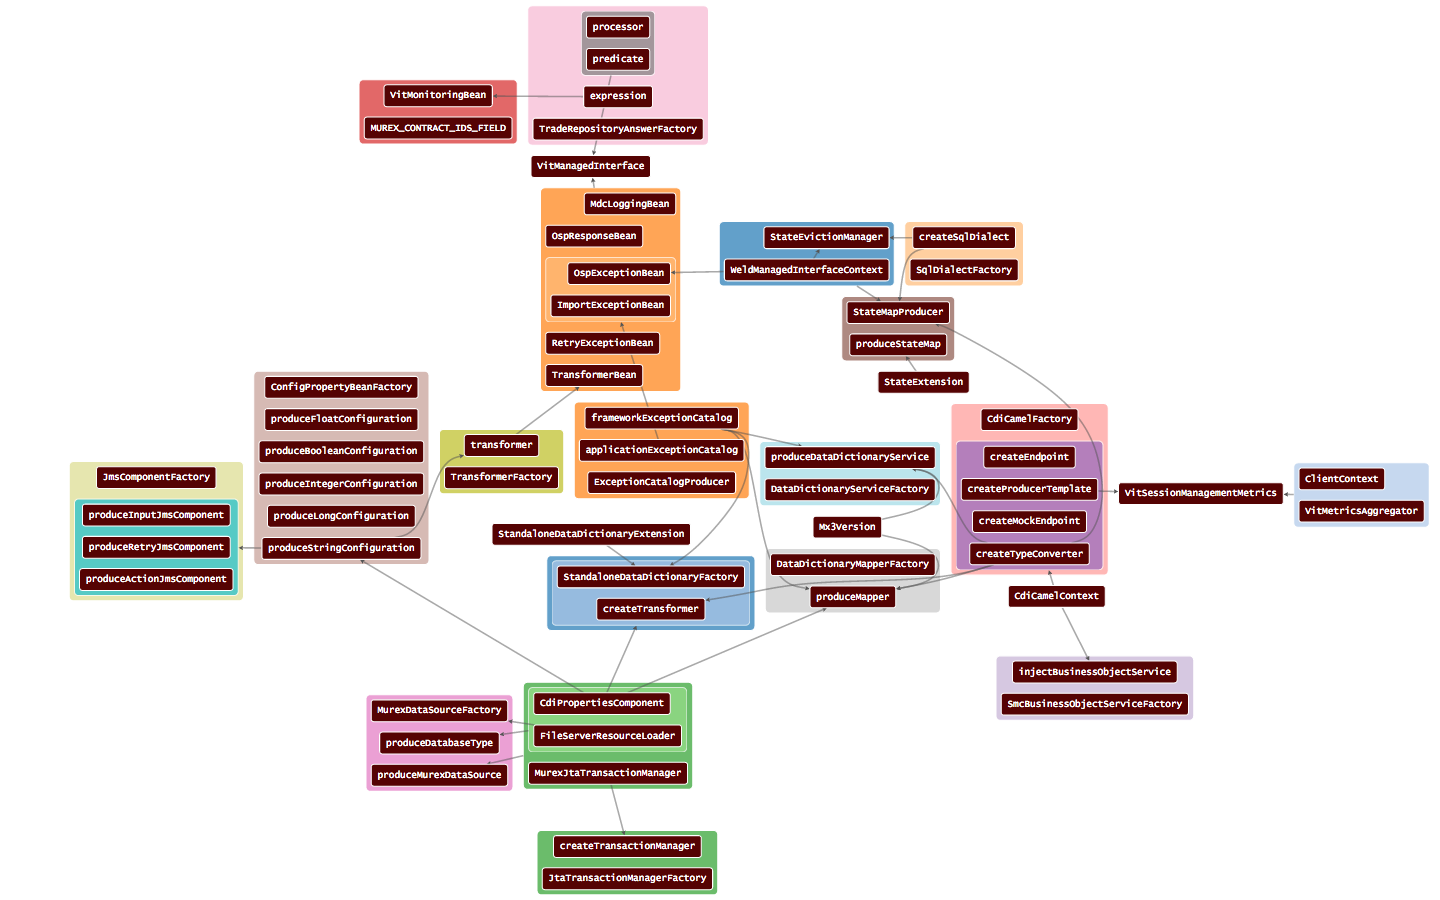
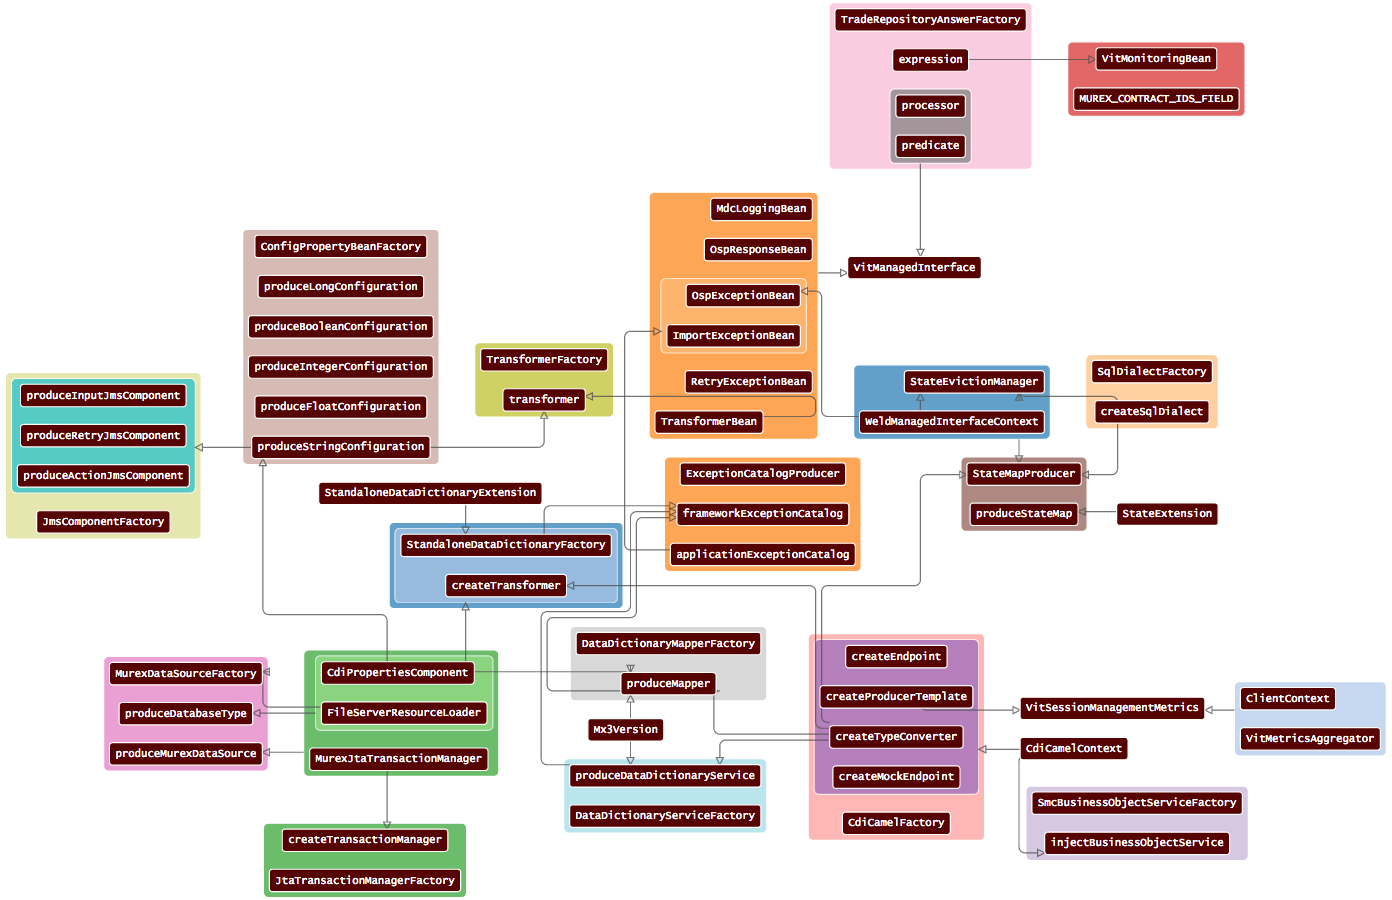
Update with metro line edge grid routing

diff --git a/cdeye.js b/cdeye.js
@@ -128,7 +128,7 @@ function display() {
         .enter().append("path")
         .attr("class", "link");
 
-    var margin = 10, pad = 12;
+    var margin = 15, pad = 10;
 
     var node = container.selectAll(".node")
         .data(nodes)
@@ -194,14 +194,156 @@ function display() {
         }
     });
 
+    function getId(v, n) {
+        return (typeof v.index === 'number' ? v.index : v.id + n) + 1;
+    }
+
     function routeEdges() {
-        d3cola.prepareEdgeRouting(0);
-        link.attr("d", function (d) {
-            // FIXME: edge routing does not work with power graph groups
-            if (!d.source.name || !d.target.name)
-                return lineFunction([{ x: d.sourceIntersection.x, y: d.sourceIntersection.y }, { x: d.arrowStart.x, y: d.arrowStart.y }]);
-            else
-                return lineFunction(d3cola.routeEdge(d));
+        //d3cola.prepareEdgeRouting(0);
+        //link.attr("d", function (d) {
+        // FIXME: edge routing does not work with power graph groups
+        //    if (!d.source.name || !d.target.name)
+        //        return lineFunction([{ x: d.sourceIntersection.x, y: d.sourceIntersection.y }, { x: d.arrowStart.x, y: d.arrowStart.y }]);
+        //    else
+        //        return lineFunction(d3cola.routeEdge(d));
+        //});
+
+        //length.each(function (d) { d.l = d.getTotalLength(); d.p = d.getPointAtLength(d.l / 2); })
+        //    .attr("x", function (d) { return d.p.x; })
+        //    .attr("y", function (d) { return d.p.y; })
+        //    .text(function (d) { return Math.floor(d.l) + "(" + Math.floor(d.computedLength) + ")"} );
+
+        var n = nodes.length, _id = function (v) {
+            return getId(v, n) - 1;
+        }, g = {
+            nodes: nodes.map(function (d) {
+                return {
+                    id: _id(d),
+                    name: d.name,
+                    //bounds: new cola.vpsc.Rectangle(d.x, d.x + d.width, d.y, d.y + d.height)
+                    bounds: d.innerBounds
+                };
+            }).concat(powerGraph.groups.map(function (d) {
+                return {
+                    id: _id(d),
+                    //innerBounds: d.innerBounds,
+                    children: (typeof d.groups !== 'undefined' ? d.groups.map(function (c) {
+                        return n + c.id;
+                    }) : []).concat(typeof d.leaves !== 'undefined' ? d.leaves.map(function (c) {
+                            return c.index;
+                        }) : [])
+                };
+            })),
+            edges: powerGraph.powerEdges.map(function (e) {
+                return {
+                    source: _id(e.source),
+                    target: _id(e.target),
+                    type: e.type
+                };
+            })
+        };
+        var gridrouter = new cola.GridRouter(g.nodes, {
+            getChildren: function (v) {
+                return v.children;
+            },
+            getBounds: function (v) {
+                return v.bounds;
+            }
+        }, 10);
+
+        //var gs = gridrouter.backToFront.filter(function (v) {
+        //    return !v.leaf;
+        //});
+
+        var routes = gridrouter.routeEdges(g.edges, 10, function (e) {
+            return e.source;
+        }, function (e) {
+            return e.target;
+        });
+
+        link.attr("d", function (e, j) {
+            var route = routes[j];
+            var id = 'e' + _id(e.source) + '-' + _id(e.target);
+            var cornerradius = 10;
+            var arrowwidth = 6;
+            var arrowheight = 12;
+            //var c = color(e.type);
+            var linewidth = 5;
+            var path = 'M ' + route[0][0].x + ' ' + route[0][0].y + ' ';
+            if (route.length > 1) {
+                for (var i = 0; i < route.length; i++) {
+                    var li = route[i];
+                    var x = li[1].x, y = li[1].y;
+                    var dx = x - li[0].x;
+                    var dy = y - li[0].y;
+                    if (i < route.length - 1) {
+                        if (Math.abs(dx) > 0) {
+                            x -= dx / Math.abs(dx) * cornerradius;
+                        } else {
+                            y -= dy / Math.abs(dy) * cornerradius;
+                        }
+                        path += 'L ' + x + ' ' + y + ' ';
+                        var l = route[i + 1];
+                        var x0 = l[0].x, y0 = l[0].y;
+                        var x1 = l[1].x;
+                        var y1 = l[1].y;
+                        dx = x1 - x0;
+                        dy = y1 - y0;
+                        var angle = cola.GridRouter.angleBetween2Lines(li, l) < 0 ? 1 : 0;
+                        //console.log(cola.GridRouter.angleBetween2Lines(li, l));
+                        var x2, y2;
+                        if (Math.abs(dx) > 0) {
+                            x2 = x0 + dx / Math.abs(dx) * cornerradius;
+                            y2 = y0;
+                        } else {
+                            x2 = x0;
+                            y2 = y0 + dy / Math.abs(dy) * cornerradius;
+                        }
+                        var cx = Math.abs(x2 - x);
+                        var cy = Math.abs(y2 - y);
+                        path += 'A ' + cx + ' ' + cy + ' 0 0 ' + angle + ' ' + x2 + ' ' + y2 + ' ';
+                    } else {
+                        var arrowtip = [x, y];
+                        var arrowcorner1, arrowcorner2;
+                        if (Math.abs(dx) > 0) {
+                            x -= dx / Math.abs(dx) * arrowheight;
+                            arrowcorner1 = [x, y + arrowwidth];
+                            arrowcorner2 = [x, y - arrowwidth];
+                        } else {
+                            y -= dy / Math.abs(dy) * arrowheight;
+                            arrowcorner1 = [x + arrowwidth, y];
+                            arrowcorner2 = [x - arrowwidth, y];
+                        }
+                        path += 'L ' + x + ' ' + y + ' ';
+                        //svg.append('path').attr('d', 'M ' + arrowtip[0] + ' ' + arrowtip[1] + ' L ' + arrowcorner1[0] + ' ' + arrowcorner1[1] + ' L ' + arrowcorner2[0] + ' ' + arrowcorner2[1] + ' Z').attr('stroke', '#550000').attr('stroke-width', 2);
+                        //svg.append('path').attr('d', 'M ' + arrowtip[0] + ' ' + arrowtip[1] + ' L ' + arrowcorner1[0] + ' ' + arrowcorner1[1] + ' L ' + arrowcorner2[0] + ' ' + arrowcorner2[1]).attr('stroke', 'none').attr('fill', c);
+                        path += 'M ' + arrowtip[0] + ' ' + arrowtip[1] + ' L ' + arrowcorner1[0] + ' ' + arrowcorner1[1] + ' L ' + arrowcorner2[0] + ' ' + arrowcorner2[1] + 'Z ';
+                    }
+                }
+            } else {
+                var li = route[0];
+                var x = li[1].x, y = li[1].y;
+                var dx = x - li[0].x;
+                var dy = y - li[0].y;
+                var arrowtip = [x, y];
+                var arrowcorner1, arrowcorner2;
+                if (Math.abs(dx) > 0) {
+                    x -= dx / Math.abs(dx) * arrowheight;
+                    arrowcorner1 = [x, y + arrowwidth];
+                    arrowcorner2 = [x, y - arrowwidth];
+                } else {
+                    y -= dy / Math.abs(dy) * arrowheight;
+                    arrowcorner1 = [x + arrowwidth, y];
+                    arrowcorner2 = [x - arrowwidth, y];
+                }
+                path += 'L ' + x + ' ' + y + ' ';
+                //svg.append('path').attr('d', 'M ' + arrowtip[0] + ' ' + arrowtip[1] + ' L ' + arrowcorner1[0] + ' ' + arrowcorner1[1] + ' L ' + arrowcorner2[0] + ' ' + arrowcorner2[1] + ' Z').attr('stroke', '#550000').attr('stroke-width', 2);
+                //svg.append('path').attr('d', 'M ' + arrowtip[0] + ' ' + arrowtip[1] + ' L ' + arrowcorner1[0] + ' ' + arrowcorner1[1] + ' L ' + arrowcorner2[0] + ' ' + arrowcorner2[1]).attr('stroke', 'none').attr('fill', c);
+                path += 'M ' + arrowtip[0] + ' ' + arrowtip[1] + ' L ' + arrowcorner1[0] + ' ' + arrowcorner1[1] + ' L ' + arrowcorner2[0] + ' ' + arrowcorner2[1] + 'Z ';
+            }
+            //svg.append('path').attr('d', path).attr('fill', 'none').attr('stroke', '#550000').attr('stroke-width', linewidth + 2);
+            //svg.append('path').attr('id', id).attr('d', path).attr('fill', 'none').attr('stroke', c).attr('stroke-width', linewidth);
+            return path;
         });
     }
 

diff --git a/lib/cola.v3.js b/lib/cola.v3.js
@@ -1572,7 +1572,7 @@ var cola;
         vpsc.generateYConstraints = generateYConstraints;
 
         function generateXGroupConstraints(root) {
-            return generateGroupConstraints(root, xRect, 1e-6);
+            return generateGroupConstraints(root, xRect, 10);
         }
         vpsc.generateXGroupConstraints = generateXGroupConstraints;
 
@@ -1641,8 +1641,8 @@ var cola;
                     computeGroupBounds(rootGroup);
                     var i = nodes.length;
                     groups.forEach(function (g) {
-                        _this.variables[i] = g.minVar = new IndexedVariable(i++, 0.5);
-                        _this.variables[i] = g.maxVar = new IndexedVariable(i++, 0.5);
+                        _this.variables[i] = g.minVar = new IndexedVariable(i++, 1);
+                        _this.variables[i] = g.maxVar = new IndexedVariable(i++, 1);
                     });
                 }
             }

diff --git a/test.html b/test.html
@@ -35,10 +35,10 @@
     .link {
         fill: none;
         stroke: #555;
-        stroke-width: 3px;
-        /*stroke-opacity: 1;*/
-        opacity: 1;
-        marker-end: url(#end-arrow);
+        stroke-width: 2px;
+        stroke-opacity: 0.8;
+        /*opacity: 1;*/
+        /*marker-end: url(#end-arrow);*/
     }
     .label {
         fill: white;
